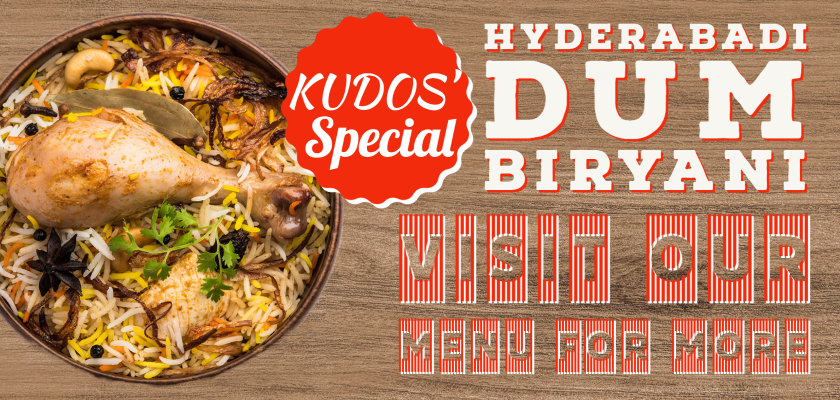
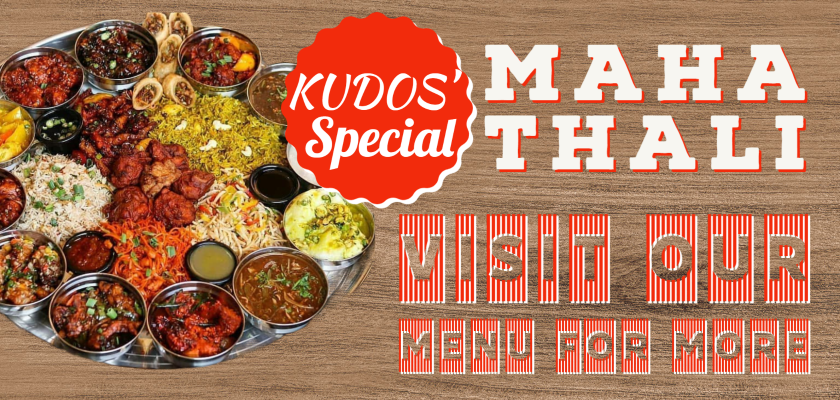
Update Repository

diff --git a/about.html b/about.html
@@ -17,7 +17,7 @@
             <li><a href="#">≡</i></a>
                 <div class="drop">
                     <ul>
-                        <li><a href="Home.html">Home</a></li>
+                        <li><a href="index.html">Home</a></li>
                         <li><a href="about.html">About Us</a></li>
                         <li><a href="menu.html">Menu</a></li>
                         <li><a href="reserve.html">Reserve</a></li>
@@ -44,6 +44,58 @@
                 We perceive that a few people are as yet searching for the run-of-the-mill nourishment. Our disclaimer is that on the off chance that you're anticipating overwhelming, slick, desirable nourishment, KUDOS' is the place for you.
                 Our expectation is that you'll join the developing pattern that such a large number of others have officially found and you will attempt KUDOS' Food Plaza as a remarkable option to other eateries as well as to all other solid sustenance alternatives out there!</p>
         </div>
+    </div>
+    <!--Gallery-->
+    <div style="width:100%;overflow:scroll;">
+        <table style="width:100%">
+            <tbody>
+                <tr>
+                    <td>
+                        <h2 style="padding:10px 0 0 25px;font-size:30px">Gallery</h2>
+                    </td>
+                </tr>
+                <tr>
+                    <td>
+                        <a href="dum.png"><img src="dum.png" class="gallery"></a>
+                    </td>
+                    <td>
+                        <a href="food.jpg"><img src="food.jpg" class="gallery"></a>
+                    </td>
+                    <td>
+                        <a href="thali-1.png"><img src="thali-1.png" class="gallery"></a>
+                    </td>
+                    <td>
+                        <a href="AP chicken.jpg"><img src="AP chicken.jpg" class="gallery"></a>
+                    </td>
+                    <td>
+                        <a href="noodles-1.png"><img src="noodles-1.png" class="gallery"></a>
+                    </td>
+                    <td>
+                        <a href="gallery.html" style="font-size:20px;text-decoration:none;color:black;">
+                            More<br>
+                            →
+                        </a>
+                    </td>
+                </tr>
+                <tr>
+                    <td>
+                        <h2 style="padding:0 0 20px 25px;font-size:20px">Chicken Dum Biryani</h2>
+                    </td>
+                    <td>
+                        <h2 style="padding:0 0 20px 25px;font-size:20px">Butter Naan and Curry</h2>
+                    </td>
+                    <td>
+                        <h2 style="padding:0 0 20px 25px;font-size:20px">KUDOS' Special Thali</h2>
+                    </td>
+                    <td>
+                        <h2 style="padding:0 0 20px 25px;font-size:20px">Traditional Andhra Chicken Curry</h2>
+                    </td>
+                    <td>
+                        <h2 style="padding:0 0 20px 25px;font-size:20px">Hakka Noodles</h2>
+                    </td>
+                </tr>
+            </tbody>
+        </table>
     </div>
     <div style="float:left;padding:30px">
         <img src="Kudos-1.png" style="width:100%;">

diff --git a/index.html b/index.html
@@ -86,6 +86,12 @@
                         <a href="food.jpg"><img src="food.jpg" class="gallery"></a>
                     </td>
                     <td>
+                        <a href="thali-1.png"><img src="thali-1.png" class="gallery"></a>
+                    </td>
+                    <td>
+                        <a href="AP chicken.jpg"><img src="AP chicken.jpg" class="gallery"></a>
+                    </td>
+                    <td>
                         <a href="noodles-1.png"><img src="noodles-1.png" class="gallery"></a>
                     </td>
                     <td>
@@ -101,6 +107,12 @@
                     </td>
                     <td>
                         <h2 style="padding:0 0 20px 25px;font-size:20px">Butter Naan and Curry</h2>
+                    </td>
+                    <td>
+                        <h2 style="padding:0 0 20px 25px;font-size:20px">KUDOS' Special Thali</h2>
+                    </td>
+                    <td>
+                        <h2 style="padding:0 0 20px 25px;font-size:20px">Traditional Andhra Chicken Curry</h2>
                     </td>
                     <td>
                         <h2 style="padding:0 0 20px 25px;font-size:20px">Hakka Noodles</h2>

diff --git a/menu.html b/menu.html
@@ -14,12 +14,12 @@
     <div class="bar">
         <h1 class="logo"><img src="Kudos-1.png" style="height:85px;width:230px;padding:0px;"></h1>
         <ul>
-            <li><a href="Home.html">Home</a></li>
+            <li><a href="index.html">Home</a></li>
             <li><a href="menu.html">Menu</a></li>
             <li><a href="#">≡</i></a>
                 <div class="drop">
                     <ul>
-                        <li><a href="Home.html">Home</a></li>
+                        <li><a href="index.html">Home</a></li>
                         <li><a href="about.html">About Us</a></li>
                         <li><a href="menu.html">Menu</a></li>
                         <li><a href="reserve.html">Reserve</a></li>

diff --git a/gallery.html b/gallery.html
@@ -20,7 +20,7 @@
             <li><a href="#">≡</i></a>
                 <div class="drop">
                     <ul>
-                        <li><a href="Home.html">Home</a></li>
+                        <li><a href="index.html">Home</a></li>
                         <li><a href="about.html">About Us</a></li>
                         <li><a href="menu.html">Menu</a></li>
                         <li><a href="reserve.html">Reserve</a></li>

diff --git a/reach.html b/reach.html
@@ -17,7 +17,7 @@
             <li><a href="#">≡</i></a>
                 <div class="drop">
                     <ul>
-                        <li><a href="Home.html">Home</a></li>
+                        <li><a href="index.html">Home</a></li>
                         <li><a href="about.html">About Us</a></li>
                         <li><a href="menu.html">Menu</a></li>
                         <li><a href="reserve.html">Reserve</a></li>

diff --git a/tips.html b/tips.html
@@ -15,7 +15,7 @@
     <div class="bar">
         <h1 class="logo"><img src="Kudos-1.png" style="height:85px;width:230px;padding:0px;"></h1>
         <ul>
-            <li><a href="Home.html">Home</a></li>
+            <li><a href="index.html">Home</a></li>
             <li><a href="menu.html">Menu</a></li>
             <li><a href="#">≡</i></a>
                 <div class="drop">
